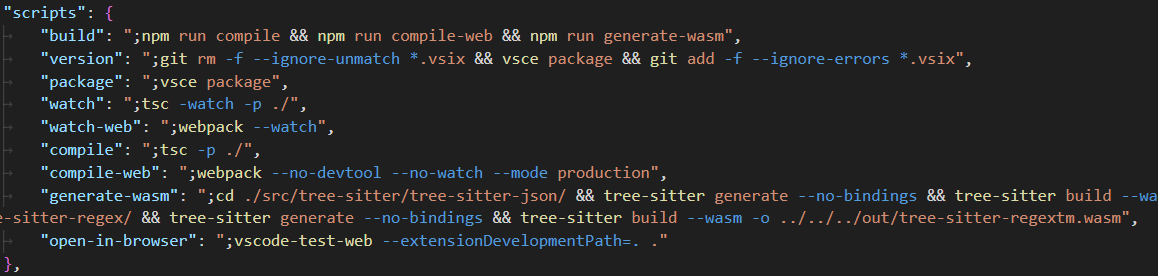
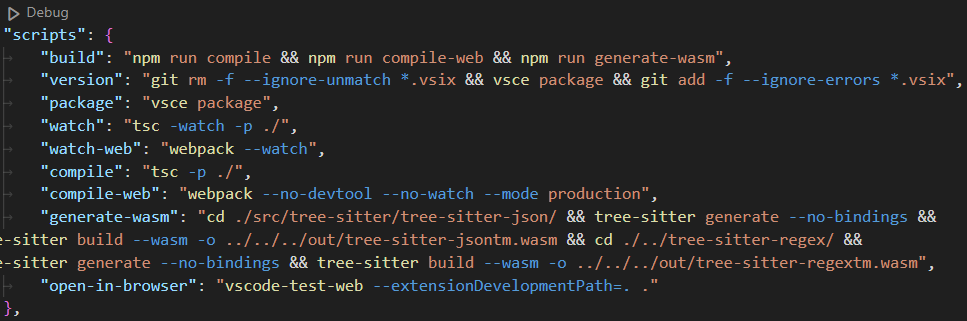
Fix first ShellScript command

Changed region(s): [[0.0, 0.4348, 1.0, 0.9275], [0.0, 0.0, 0.9928, 0.4058], [0.0, 0.9275, 0.031, 0.9855]]

diff --git a/README.md b/README.md
@@ -2,14 +2,11 @@
 
 ## Features
 
-Syntax Highlighting for ShellScript language within `package.json` `"scripts"`
+Syntax Highlighting for ShellScript language within `package.json` `"scripts"`.  
 ![Example `package.json` code](images/Example.png)
 
 
 ## Known Issues
-
-ShellScript doesn't highlight code after double quotes `"` .  
-Workaround is to place a semicolon `;` at the start of each string.  
 
 This extension targets every JSON file, not just `package.json`.  
 However only a root level `"scripts"` object is affected.  
@@ -20,3 +17,6 @@ However only a root level `"scripts"` object is affected.
 ## For more information
 
 * The GitHub [Issue](https://github.com/microsoft/vscode/issues/224581) that spawned the idea
+* https://github.com/jeff-hykin/better-shell-syntax/issues/100
+* [Repository](https://github.com/RedCMD/JSON-Embedded-Languages)
+* [Marketplace](https://marketplace.visualstudio.com/items?itemName=RedCMD.json-embedded-languages)
